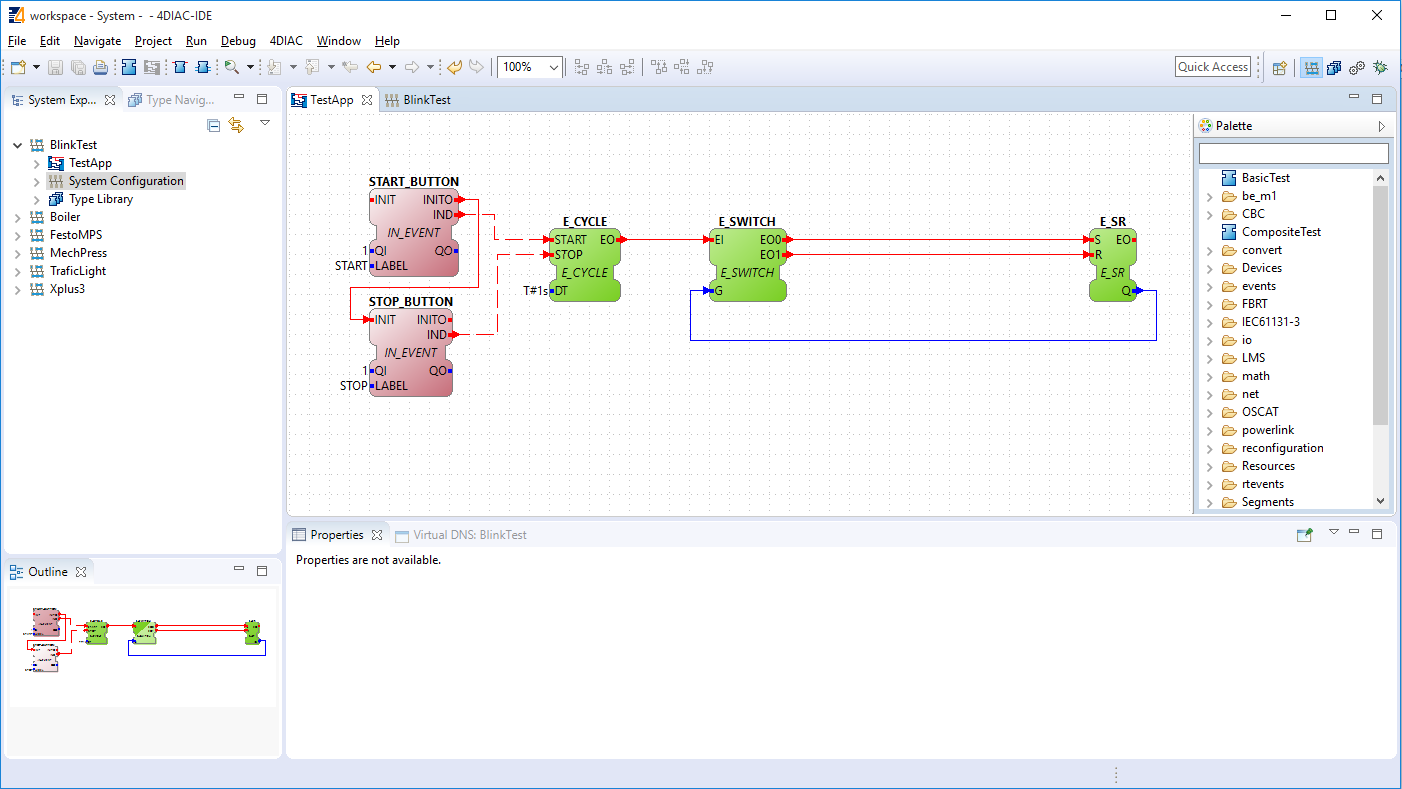
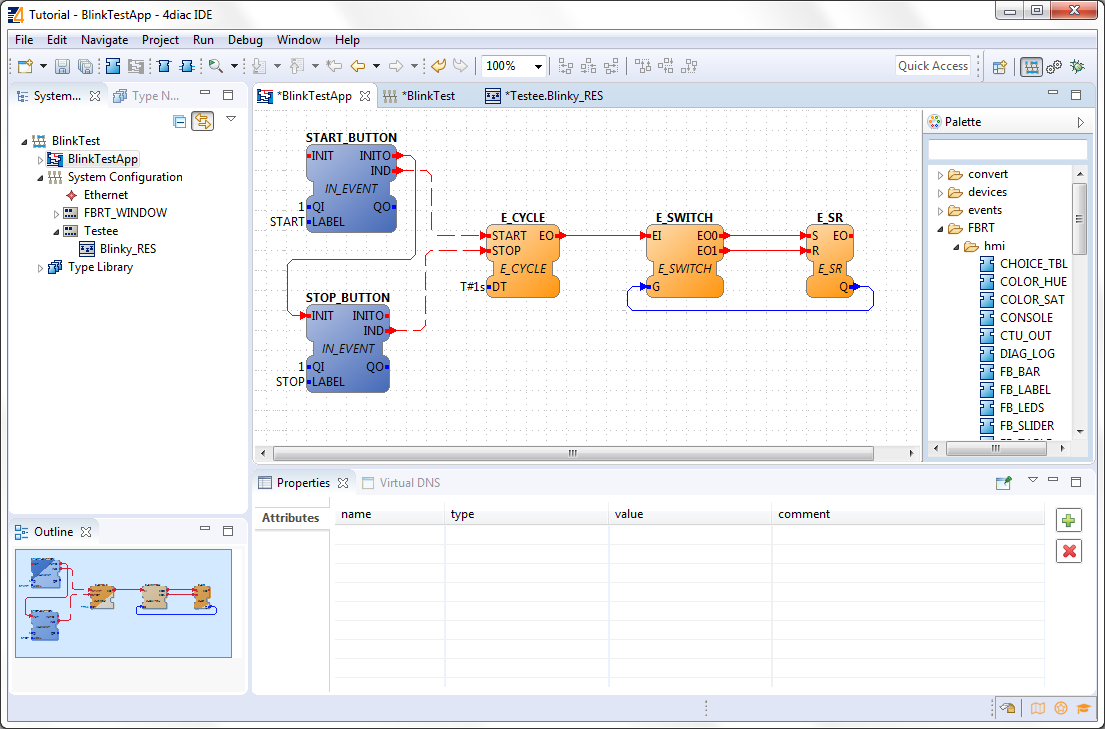
[539344] Update of tutorial step 2
started reworking step 2 for the release 1.10.

Bug: https://bugs.eclipse.org/bugs/show_bug.cgi?id=539344

diff --git a/plugins/org.eclipse.fordiac.ide/html/4diacIDE/distribute4diac.html b/plugins/org.eclipse.fordiac.ide/html/4diacIDE/distribute4diac.html
@@ -26,7 +26,7 @@
 
     <ol start="0">
       <li><a href="./overview.html">Overview</a></li>
-      <li><a href="./use4diacLocally.html">Use 4DIAC locally</a></li>
+      <li><a href="./use4diacLocally.html">Use 4diac IDE locally</a></li>
       <li>Create a distributed application (YOU ARE HERE!)</li>
       <li><a href="./use4diacRemotely.html">Deploy remotely</a></li>
       <li><a href="./createOwnTypes.html">Create your own Function Blocks</a></li>
@@ -34,85 +34,113 @@
       <li><a href="./advancedFeatures.html">Advanced Features [optional]</a></li>
     </ol>
 
-    <p>This guide adds a Start and Stop control to the Blinking application created in <a href="./use4diacLocally.html" target="_blank">Step 1</a>. Normally you would put two buttons that would serve as inputs to the PLC and control the Blink application. In this following example, it will be shown how to detach the buttons from the same Hardware and make them run separately. For now, the example still uses the local computer. But the Blink application will run on a FORTE instance and the input buttons will run on a FBRT instance (if you don't know what it is or you've forgotten, <a href="../before4DIAC/4diacFramework.html" target="_blank">here</a> the quick access). The two different program running on the local machine emulate two PLCs. See the architecture below.</p>
+<!----------------------------------------------------------------------------------------------------------------->
 
-    <img src="./img/distributedArchitecture.png" alt="architecture for the current step"/>
+  <p>This guide extends the blinking application of <a href="./use4diacLocally.html" target="_blank">Step 1</a>. 
+  We want to count how many times the light has turned on. 
+  You will learn how to distribute a IEC 61499 Application to several devices and set up the communication between them.
+  The example continues to run on the local computer. 
+  The Application will run on 2 devices. 
+  The blinking part of the application will run on a 4diac FORTE and the count on another 4diac FORTE, see the architecture below.
+  The two different programs running on the local machine emulate two PLCs.
+  <br><img src="./img/distributedArchitecture.png" alt="architecture for the current step"/></p>
 
-    <h2 id="addAnotherDevice">Add another device to System Configuration</h2>
+<!----------------------------------------------------------------------------------------------------------------->
 
-    <p>First, add a new device to the System Configuration. Go to it, and Drag and Drop a FBRT_WINDOW (1) next to the FORTE_PC, and connect it to the Ethernet sement. It already comes with a resource called PANEL_RESOURCE. The MGR_ID (2) is very important to change, since by default it has the same IP:PORT as the FORTE_PC. Change it to <span class="address">localhost:61505</span>. This means that the FBRT will run locally (localhost) and will listen at the port 61505, a different one from the 61499 from FORTE_PC.</p>
-
-    <img src="./img/distributedSystemConfiguration.png" alt="Distribute System Configuration"/>
-
-    <h2 id="addButtonFBs">Add buttons FBs to the Blink application</h2>
-
-    <p>Back in the Application, because FBRT is written in Java and supports graphical interface and other FBs, there's a folder called <span class="folderLocation">FBRT</span> in the Palette that contains special FBs that only work on it and not in FORTE. In a Subfolder is the <span class="folderLocation">hmi</span> folder and inside of it you can find the IN_EVENT FB.</p>
+    <h2 id="extendApplication">Extend the Application</h2>
+    
+    <p>To count the blinking, we need to add 2 new Function Blocks (FBs) to the existing Application in the <i>BlinkTestApp</i> Application Editor.</p> 
+    
+     <ol>
+      <li>Drag and Drop the following FBs from the folder events of the Palette.
+      <ul>
+            <li>E_PERMIT </li>
+            <li>E_CTU</li>
+          </ul>
+      </li>
+      <li>Create the connections between them the FBs.</li>
+    </ol>
+    
+    <p>Remember, Event and Data connections can not be mixed.</p>
+ <!-----------------------------------------------------------------------------------------------------------------> 
+    
+    <h2 id="AddAnotherDevice">Add Another Device</h2>
+    
+    <p>Change to the <i>BlinkTest</i> System Configuration Editor an add a second device from the Palette. 
+    The counter will run on the new device</p> 
 
     <ol>
-      <li>Drag two of them at the left of the blink application. Change the names to START_BUTTON and STOP_BUTTON for better reference.</li>
-      <li>Set the QI of both FBs to 1, and in the LABEL input data, set to the text that you want to see on them. We'll use START and STOP. The 1 in QI means that when an INIT event arrives, the FB will initialize, and if it was zero it would have been de-initialized.</li>
-      <li>Connect the IND event of the START_BUTTON to the START input event of E_CYCLE, and similarly for the STOP_BUTTON and the STOP event. Also, connect the INITO of START_BUTTON to the INIT of STOP_BUTTON. See the image below.</li>
-      <li>Select both FBs, and map them to the resource of the FBRT_WINDOW device that you added before.</li>
+      <li>Drag and Drop a <b>FORTE_PC</b> device next to the existing one.</li>
+      <li>Rename it to <b>Counter</b>.</li>
+      <li>Set the localhost to 61500. The devices need to have different localhosts, they can not have the same.</li>
     </ol>
+    
+     <p>Change back to the <i>BlinkTestApp</i> Application Editor and map the two new FB to the Resource <i>Counter_RES</i>.</p> 
+         
+ <!-----------------------------------------------------------------------------------------------------------------> 
+  
+    <h2 id="SetUpCommunication">Set up the Communication Between Both Devices</h2>
 
-    <img src="./img/distributedApplication.png" alt="Distribute Application"/>
+        
+    <p>Change to the <i>Testee.Blinky_RES</i> or <i>Counter.Counter_RES</i> Resource Editor. 
+    There you can see 2 incomplete FBs at the E_SR FB or E_PERMIT. 
+    It symbolizes the broken connections between the two devices.
+    Currently they have no opportunity to communicate with each other. 
+    We fix it by adding special Communications FBs.
+    You can find more information about broken connections <a href="../before4DIAC/iec61499.html#brokenConnection">here on our Homepage</a>.</p> 
+    
+    <!---------------------->
+     <h3 id="SetUpBlinking">Set up the Blinking Part of the Application </h3>
+     
+     <p>Change to the <i>Testee.Blinky_RES</i> Resource Editor.</p> 
+     
+     <p>Drag and Drop a <b>PUBLISH_1</b> FB from the folder net of the Palette and set up the connections.
+     The PUBLISH FB must be initialized, so it is best to connect its INIT event directly to the START.</p>
+     
+    <!---------------------->
+     <h3 id="SetUpCounting">Set up the Counting Part of the Application</h3>
+     
+     <p>Change to the <i>Counter.Counter_RES</i> Resource Editor.</p>
+     
+     <p>Drag and Drop a <b>SUBSCRIBE_1</b> FB from the folder net of the Palette and set up the connections.
+     The SUBSCRIBE FB must also be initialized.</p>
+     
+     <p>Back in the <i>BlinkTest</i> System Configuration Editor you can see the dashed connections between the two devices.</p>
+        
+ <!-----------------------------------------------------------------------------------------------------------------> 
+  
+    <h2 id="startDevices">Start both devices</h2>
+    
+    <p>Change to the Deployment Perspective.</p> 
+    
+    <ol>
+      <li>Set the Port to 61499 (the same define before, remember localhost:61499 in the System Configuration Editor?)</li>
+      <li>Launch Local FORTE</li>
+      <li>You should see the the location of your 4diac FORTE and the Terminate button enabled in the Console.</li>
+      <li>Set the Port to 61500 (the same define before, remember localhost:61500 in the System Configuration?)</li>
+      <li>Launch Local FORTE</li>
+      <li>You should see the the location of your 4diac FORTE and the Terminate button enabled in the Console.</li>
+      <li>Select the elements to deploy. 
+          For this tutorial select our devices <i>Counter</i> and <i>Testee</i>.</li>
+      <li>Click the <span class="button4diac">Deploy</span> button</li>
+      <li>Check that the <i>Deployment Console</i> shows some output, and that no red warning appears on the right nor left of it. 
+          If you get something red, something went wrong.</li>
+    </ol>
+       
+ <!-----------------------------------------------------------------------------------------------------------------> 
+  
+    <h2 id="testApplication">Test it! </h2>
+       
+ <!-----------------------------------------------------------------------------------------------------------------> 
+  
 
-    <p>You can see the stripped line instead of the solid that connect FBs that run in diffent devices. This means that the event doesn't go directly. Since the communication of these events is not implicit, we must complete the application in both devices to handle this broken connections.</p>
 
 
-<h2 id="fixBrokenConnections">Fix broken connections between devices</h2>
 
-<ol>
-  <li>Go to the System Configuration, and double click on the Resource of the FBRT_WINDOW to access the Resource. You see here the two functions block that you added to the application and START FB that comes with the resource.</li>
-  <li>First, connect the COLD and WARM events from the START FB to the INIT event of START_BUTTON. (The order they're initialized is the order they appear in the GUI)</li>
-  <li>Add two PUBLISH_0 FBs from the Palette in the same Resource view. Call them PUBLISH_START and PUBLISH_STOP.</li>
-  <li>Keep the flow of the INIT events by connecting the INITO to the next INIT.</li>
-  <li>Set QI of both PUBLISH to 1.</li>
-  <li>Connect the IND output event of START_BUTTON to the REQ of a PUBLISH_START. Do the same for the other pair of FBs.</li>
-  <li>Set the ID input data of START_BUTTON to 239.0.0.1:61000 and the ID of PUBLISH_STOP to 239.0.0.1:61001.</li>
-</ol>
 
-  <img src="./img/distributedFBRT.png" alt="Distribute FBRT resource"/>
 
-  <p>Here's what the last steps means. Every time you click the button in the FBRT, an IND event is generated. The PUBLISH_X FBs are used to send messages throught the network. Every time a REQ is triggered, a message is sent according to the ID. In the ID you can specify if you want to use a specific network protocol like MQTT, OPC, etc. If you don't specify anything, the default defined in the Compliance Profile is used. The number X in PUBLISH_X is the number of data that you want to send as message, and since we are sending only an event here, and no data we used PUBLISH_0.</p>
 
-  <p>The selected ID specifies an IP:PORT pair. The used <a href="http://www.holobloc.com/doc/ita/s3.htm#3.3" target="_blank">Compliance Profile</a> says that we should use UDP sockets in a certain range. The selected 239.0.0.1 and port 61000/1 have nothing to do with the localhost:61499 or localhost:61505 used for the device. The first are a UDP connections used to send events between devices, and the latter are TCP connections to connect to 4DIAC to upload applications and manage them. Take care of not using the same pair for different UDP sockets.</p>
-
-  <h2>Fix broken connections in the other resource</h2>
-
-<ol>
-  <li>Go to the System Configuration, and double click on the Resource of the FORTE_PC to access the Resource. You see here the blink application as before.</li>
-  <li>First, remove the COLD and WARM events from the START of E_CYCLE, since this will be triggered by the buttons.</li>
-  <li>Add two SUBSCRIBE_0 FBs from the Palette in the same Resource view. Call them SUBSCRIBE_START and SUBSCRIBE_STOP.</li>
-  <li>Connect the WARM and COLD from the START FB to the INIT of SUBSCRIBE_START, and then continue the flow to SUBSCRIBE_STOP.</li>
-  <li>Set QI of both SUBCRIBE to 1.</li>
-  <li>Connect the IND output event of SUBSCRIBE_START to the START of E_CYCLE. Do the same for the other pair of FBs.</li>
-  <li>Set the ID input data of SUBSCRIBE_START to 239.0.0.1:61000 and the ID of SUBSCRIBE_STOP to 239.0.0.1:61001.</li>
-</ol>
-
-  <img src="./img/distributedFORTE.png" alt="Distribute FORTE resource"/>
-
-  <p>This is like the mirror of the step before. Each subscriber listen to a specific UDP IP:PORT. These are the same as used in the GUI. This means that when you press the START button, an event will be sent to a specific IP:PORT using UDP, and since the Blinking device is listening to the same IP:PORT, it will get the event, triggering in the application.</p>
-
-<h2 id="deployDevices">Deploy both devices</h2>
-
-<p>Similar on how it was done to deploy the Blink application is done for two. The only difference is that in this case we launch 1 FORTE instance and 1 FBRT instance in the Deployment Perspective. First set Windows &rarr; Preferences &rarr; 4DIAC &rarr; FBRT Preferences to the fbrt.jar file located under runtime/FBRT in your 4DIAC folder.</p>
-
-<ol>
-  <li>Select both devices in the Donwload Selection</li>
-  <li>Launch one FORTE instance. The port should be one specified in the System Configuration (has nothing to do with the IP:PORT used with UDP to send events)</li>
-  <li>Launch one FBRT instance. The same care must be taken regarding the port. This will open a GUI frame.</li>
-  <li>Download the application</li>
-  <li>Check that you don't get any error.</li>
-  <li>You should see the buttons in the GUI.</li>
-
-</ol>
-
-<img src="./img/distributedDownload.png" alt="Distribute FORTE resource"/>
-
-<h2 id="testApplication">Test it! </h2>
-
-<p>Do the debugging similar on how it was done in the <a href="./use4diacLocally.html#monitoringApplication" target="_blank">Blink example</a>. You should see the blinking only after you pressed the start button, and it should stop when pressing the other button. Attention!: You cannot monitor FBRT, only FORTE, because it's a feature only present on it.</p>
+<!----------------------------------------------------------------------------------------------------------------->
 
 <h1>Where to go from here?</h1>
 

diff --git a/plugins/org.eclipse.fordiac.ide/html/4diacIDE/use4diacLocally.html b/plugins/org.eclipse.fordiac.ide/html/4diacIDE/use4diacLocally.html
@@ -23,7 +23,7 @@
 
     <h1 id="topOfPage">Step 1 - Use 4diac IDE locally (Blinking tutorial)</h1>
 
-    <p>This page is part of a guide that gives a walkthrough over the major 4DIAC features.</p>
+    <p>This page is part of a guide that gives a walkthrough over the major 4diac-IDE features.</p>
 
     <ol start="0">
       <li><a href="./overview.html">Overview</a></li>
@@ -76,7 +76,7 @@
           <img src="./img/blinkFBs.png" alt="Function Blocks for the blink example" />
           <p>The name in the middle of the FB is the type of it. If you CTRL + click on it, you can access the definition of the type of the FB. There you can see the interface and how it works. Check E_SWITCH and E_SR and go to the ECC tab to see how it behaves.</p>
 
-          <p>The name on top of the FB is the instace name. Two FBs cannot have the same instance name. You can double click on it to change it for a better organized application.</p>
+          <p>The name on top of the FB is the instance name. Two FBs cannot have the same instance name. You can double click on it to change it for a better organized application.</p>
         </li>
         <li>Create the connections between the FBs
           <p><b>Event</b> (red, on top part of FBs) and <b>Data</b> (blue, on lower part of FBs) <b>connections</b> can be generated by connecting the Event-/Data in- and outputs. Position the mouse pointer over an Event-/Data in- or output, click and drag to the other end of the connection to create one. Remember, Event and Data connections cannot be mixed. Events connections allow fan-in and fan-out. Data connections allow fan-out but not fan-in.</p>
@@ -223,7 +223,7 @@
        <li>You have to select a 4diac FORTE. 
        <br/>You can either build your own 4diac FORTE as <a href="../installation/install.html#ownFORTE">shown here</a> or you can download the 4diac FORTE that is provided for you for this tutorial on <a href="https://www.eclipse.org/4diac/en_dow.php">our Homepage</a>. You can save the .exe wherever you like, we have chosen F:\4diac\4diac-ide\. 
        Go to <span class="menu4diac">Windows &rarr; Preferences &rarr; 4diac IDE &rarr; FORTE Preferences</span>, and in <span class="addressDoc">FORTE Location</span> look for the 4diac FORTE and then click <i>Apply and Close</i>. 
-          <br><img src="./img/selectForte.png" width="600" alt="select your 4diac FORTE" /></li></br>
+          <br><img src="./img/selectForte.png" width="600" alt="select your 4diac FORTE" /></li>
        <li>Change to the <i>Deployment Perspective</i> using the <img src="./img/perspective/deploymentButton.gif" alt="Deployment Perspective Button" class="inlineImg"/> button.</li>
        <li>Set the port to 61499 (the same define before, remember <span class="address">localhost:61499</span> in the System Configuration?)</li>
        <li><span class="button4diac">Launch Local 4diac FORTE</span></li>

diff --git a/plugins/org.eclipse.fordiac.ide/html/before4DIAC/iec61499.html b/plugins/org.eclipse.fordiac.ide/html/before4DIAC/iec61499.html
@@ -121,7 +121,7 @@ Events and data connections are not compatible, meaning that you cannot connect 
 
 <p>You can see that not all FBs of one application go to the same device, and that a device can run many applications or many part of applications. CAUTION: A FB cannot be split to many devices.</p>
 
-<h3>Broken Connections</h3>
+<h3 id="brokenConnection">Broken Connections</h3>
 
 <p>Well, it's very nice that you can split the application into many devices, but the data and events need to be sent to the next device in order to maintain the flow of them. Yes! that's why you fix this connections with special FB to publish and subscribe to this information as seen in the image below. Since these new FBs are not part of the application as an overall, you see them only when you go into the resource view.</p>
 
